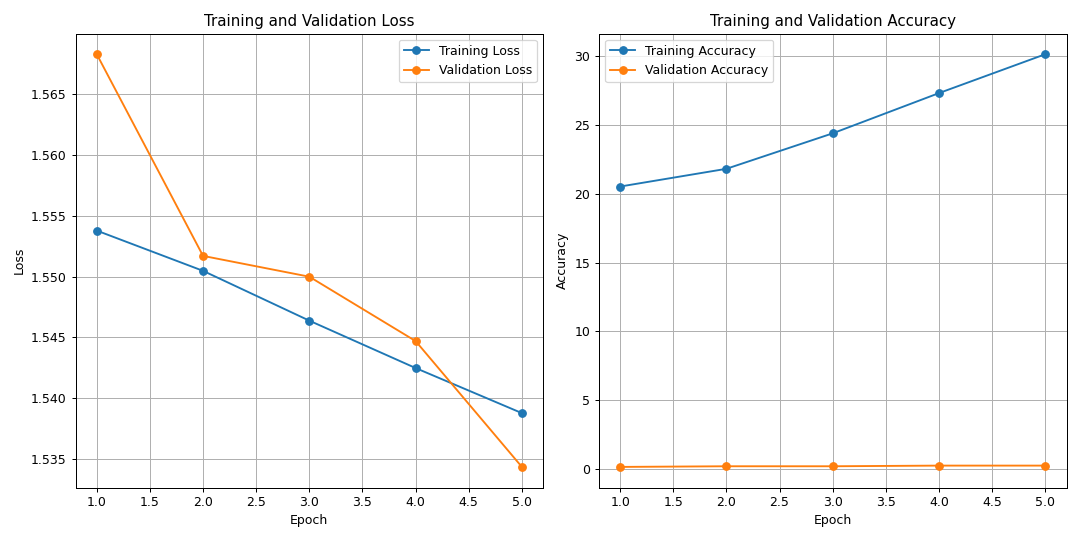
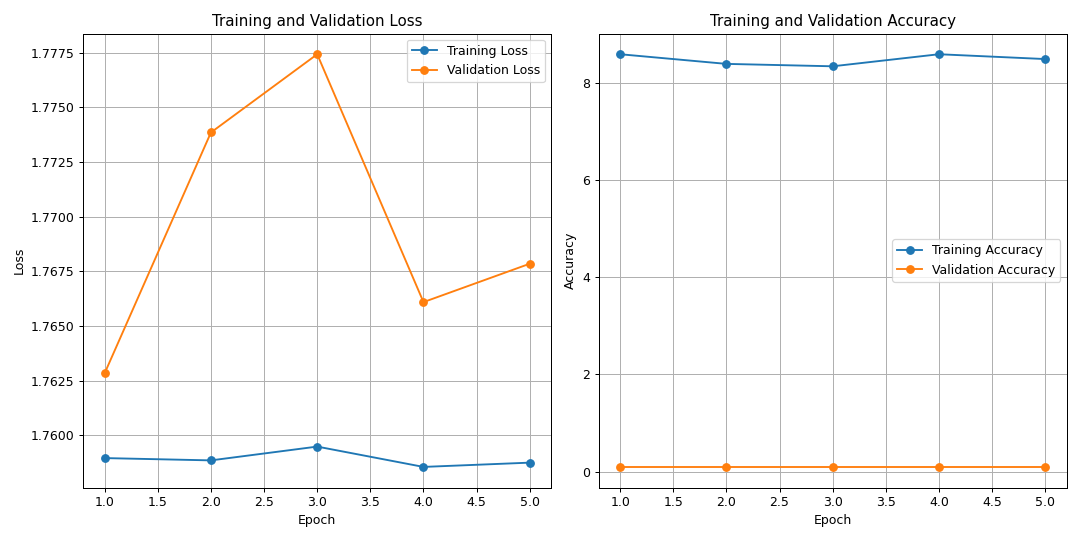
use pretrained bert

diff --git a/bert.py b/bert.py
@@ -24,7 +24,7 @@ texts, labels = load_and_preprocess_data(path_to_file)
 MAX_SEQ_LENGTH = 128
 BATCH_SIZE = 32
 LEARNING_RATE = 1e-8
-EPOCHS = 5  # 1000
+EPOCHS = 1000 # this huge number of epochs is used due to usage of early stopping
 
 # Load a pre-trained BERT tokenizer and model
 tokenizer = BertTokenizer.from_pretrained('bert-base-uncased')
